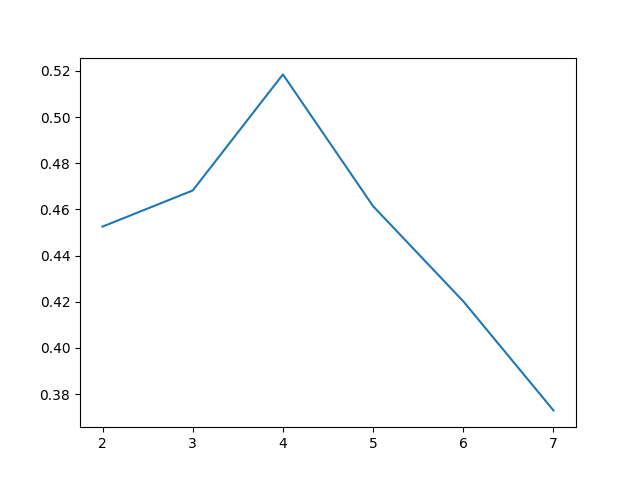
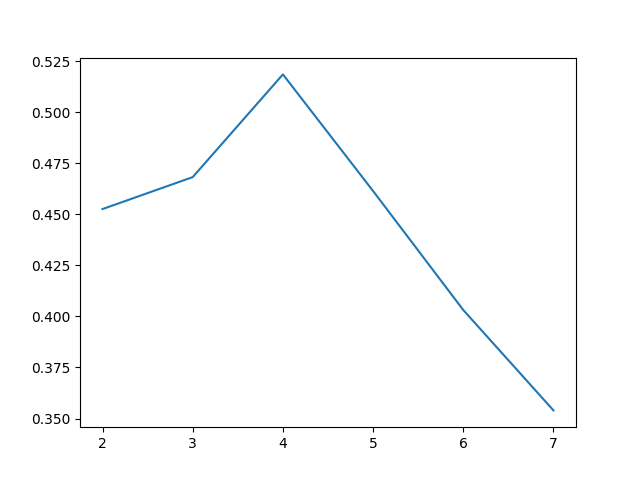
add kmedoids

diff --git a/run_kmc.py b/run_kmc.py
@@ -2,6 +2,8 @@ import pandas
 import matplotlib.pyplot as pyplot
 
 from sklearn.cluster import KMeans
+from sklearn_extra.cluster import KMedoids
+
 
 from sklearn.metrics import silhouette_score
 
@@ -56,7 +58,39 @@ print(silhouette_result.index(max(silhouette_result))+2)
 
 
 
+def run_kmedoids(n, dataset):
+  machine = KMedoids(n_clusters=n)
+  machine.fit(dataset)
+  results = machine.predict(dataset)
+  centroids = machine.cluster_centers_
+  ssd = machine.inertia_
+  if n > 1:
+    silhouette = silhouette_score(dataset, machine.labels_, metric="euclidean")
+  else:
+    silhouette = 0
+  pyplot.scatter(dataset[:,0], dataset[:,1], c=results)
+  pyplot.scatter(centroids[:,0], centroids[:,1], c='red', marker="*", s = 200)
+  pyplot.savefig("scatterplot_kmedoids_" + str(n) + ".png")
+  pyplot.close()
+  return ssd, silhouette
 
+
+result = [run_kmedoids(i+1, dataset) for i in range(7)]
+# print(result)
+
+ssd_result = [ i[0] for i in result]
+pyplot.plot(range(1,8), ssd_result)
+pyplot.savefig("kmedoids_ssd.png")
+pyplot.close()
+
+
+silhouette_result = [ i[1] for i in result][1:]
+pyplot.plot(range(2,8), silhouette_result)
+pyplot.savefig("kmedoids_silhouette.png")
+pyplot.close()
+
+print(silhouette_result)
+print(silhouette_result.index(max(silhouette_result))+2)
 
 
 
